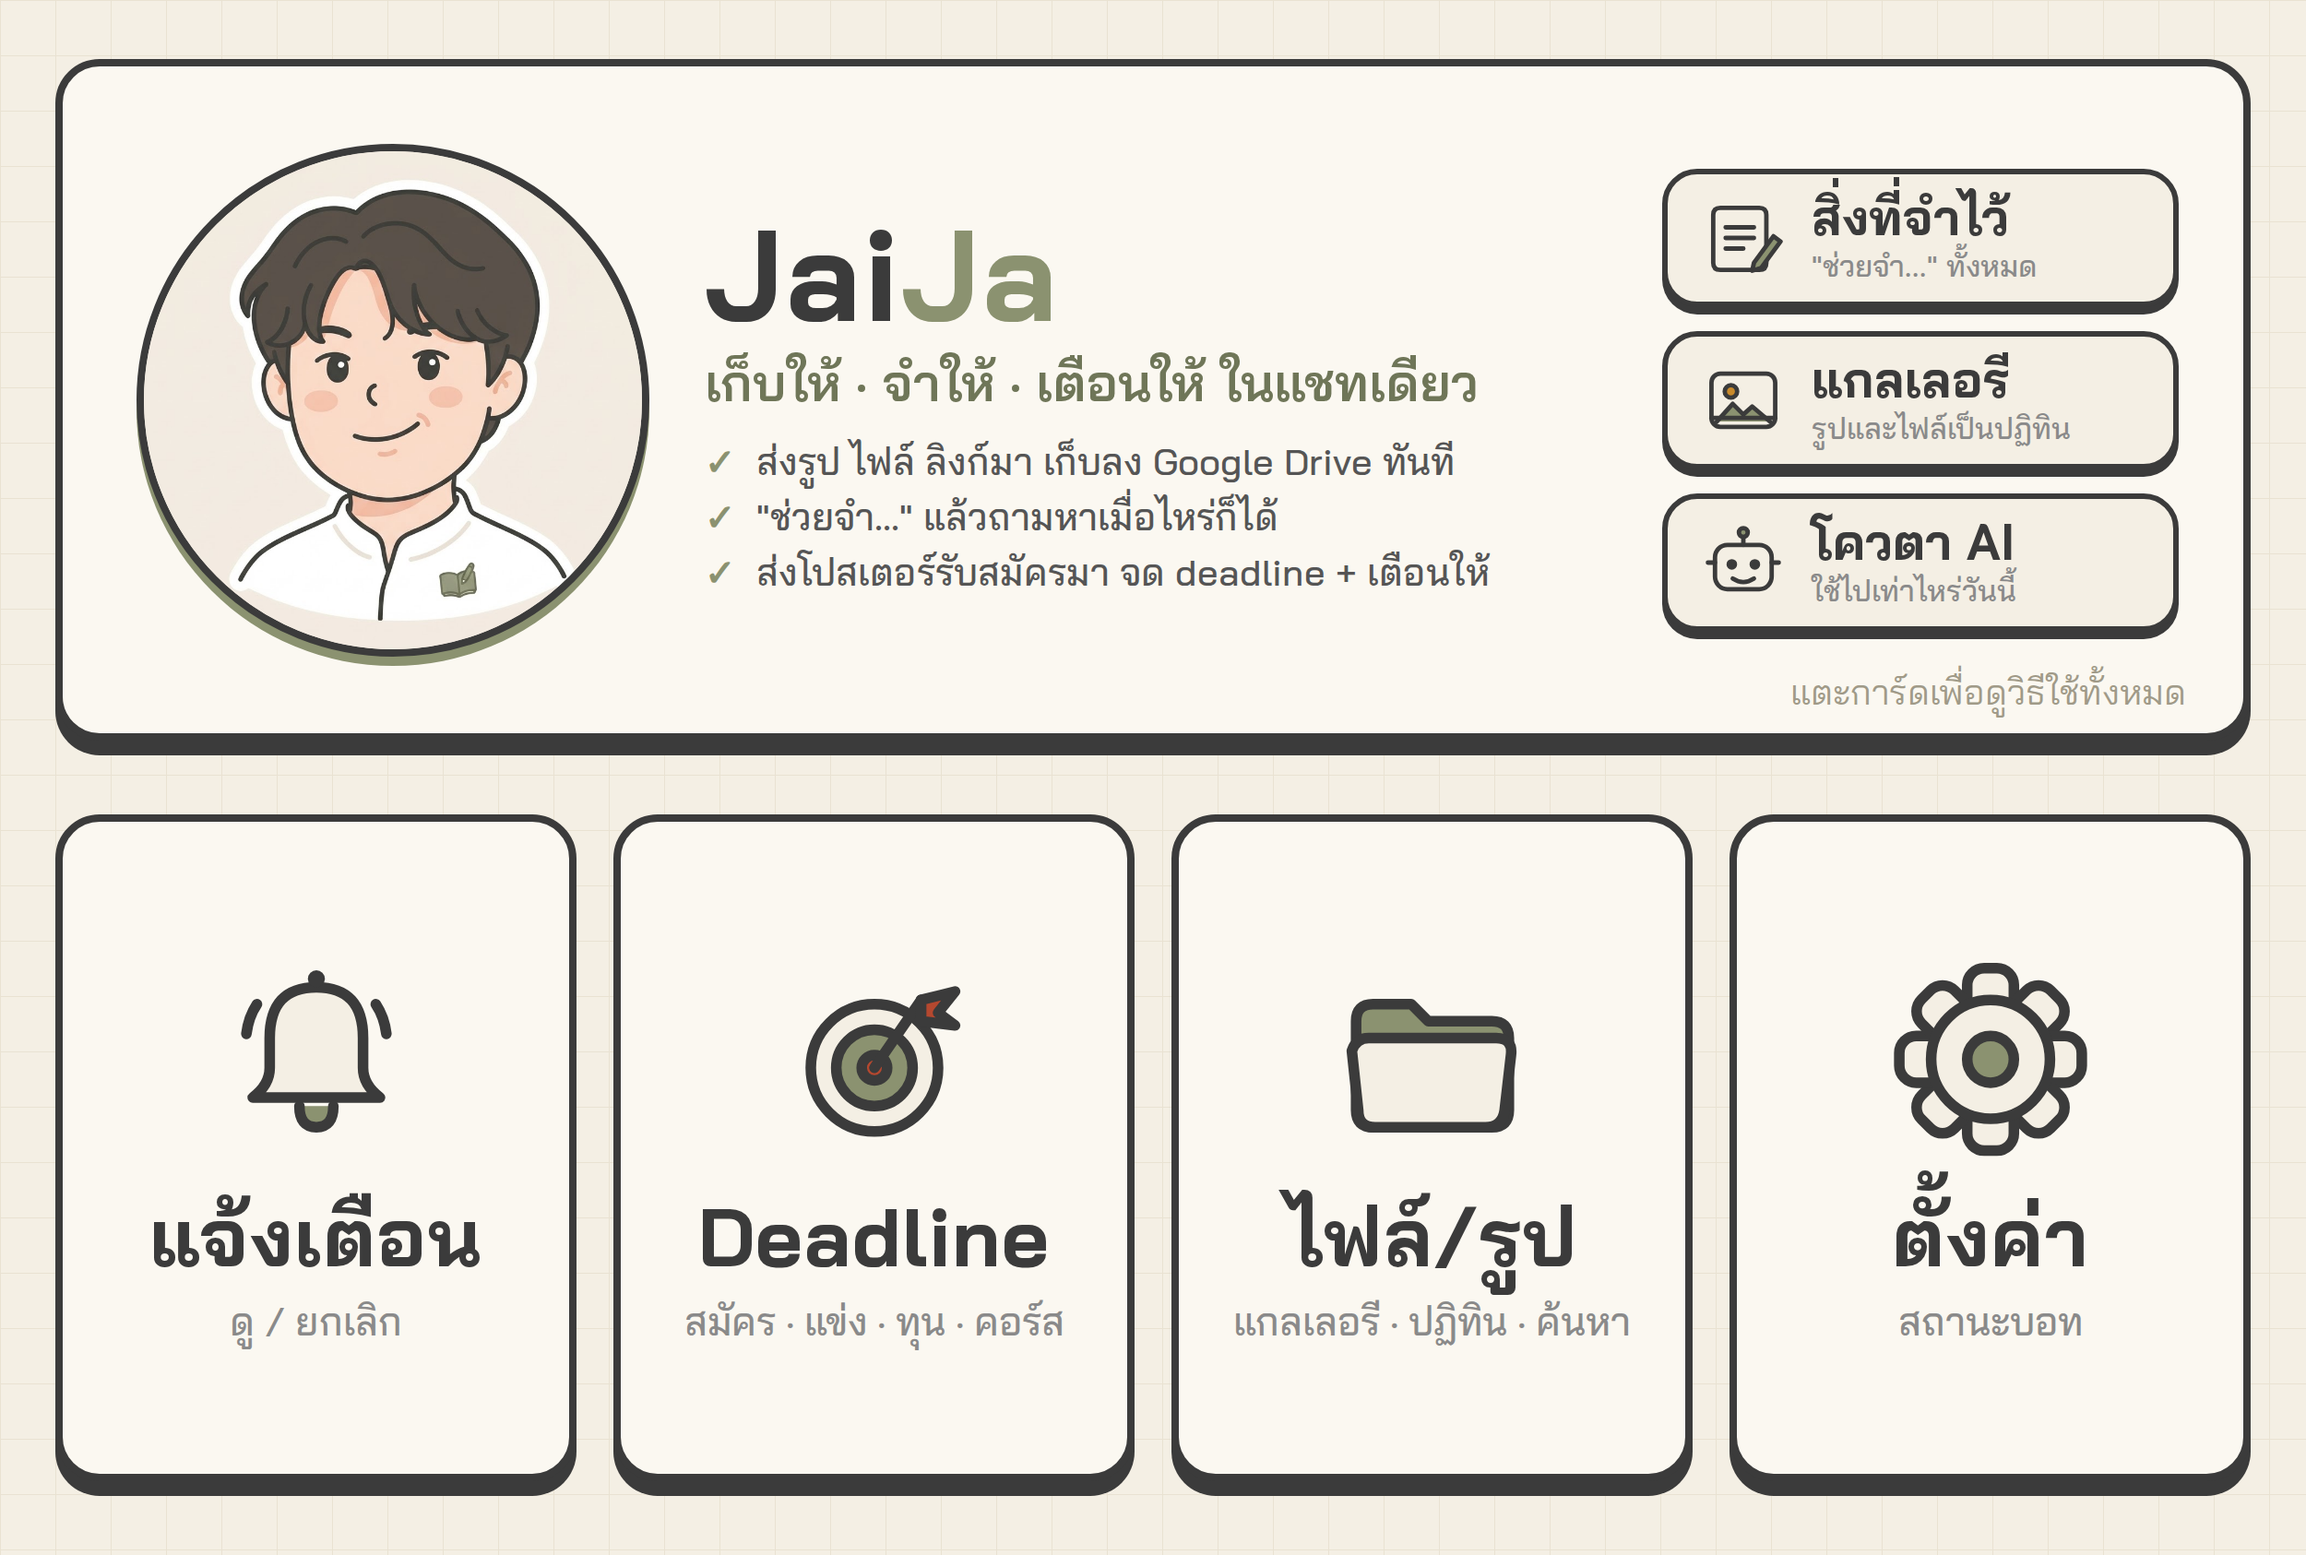
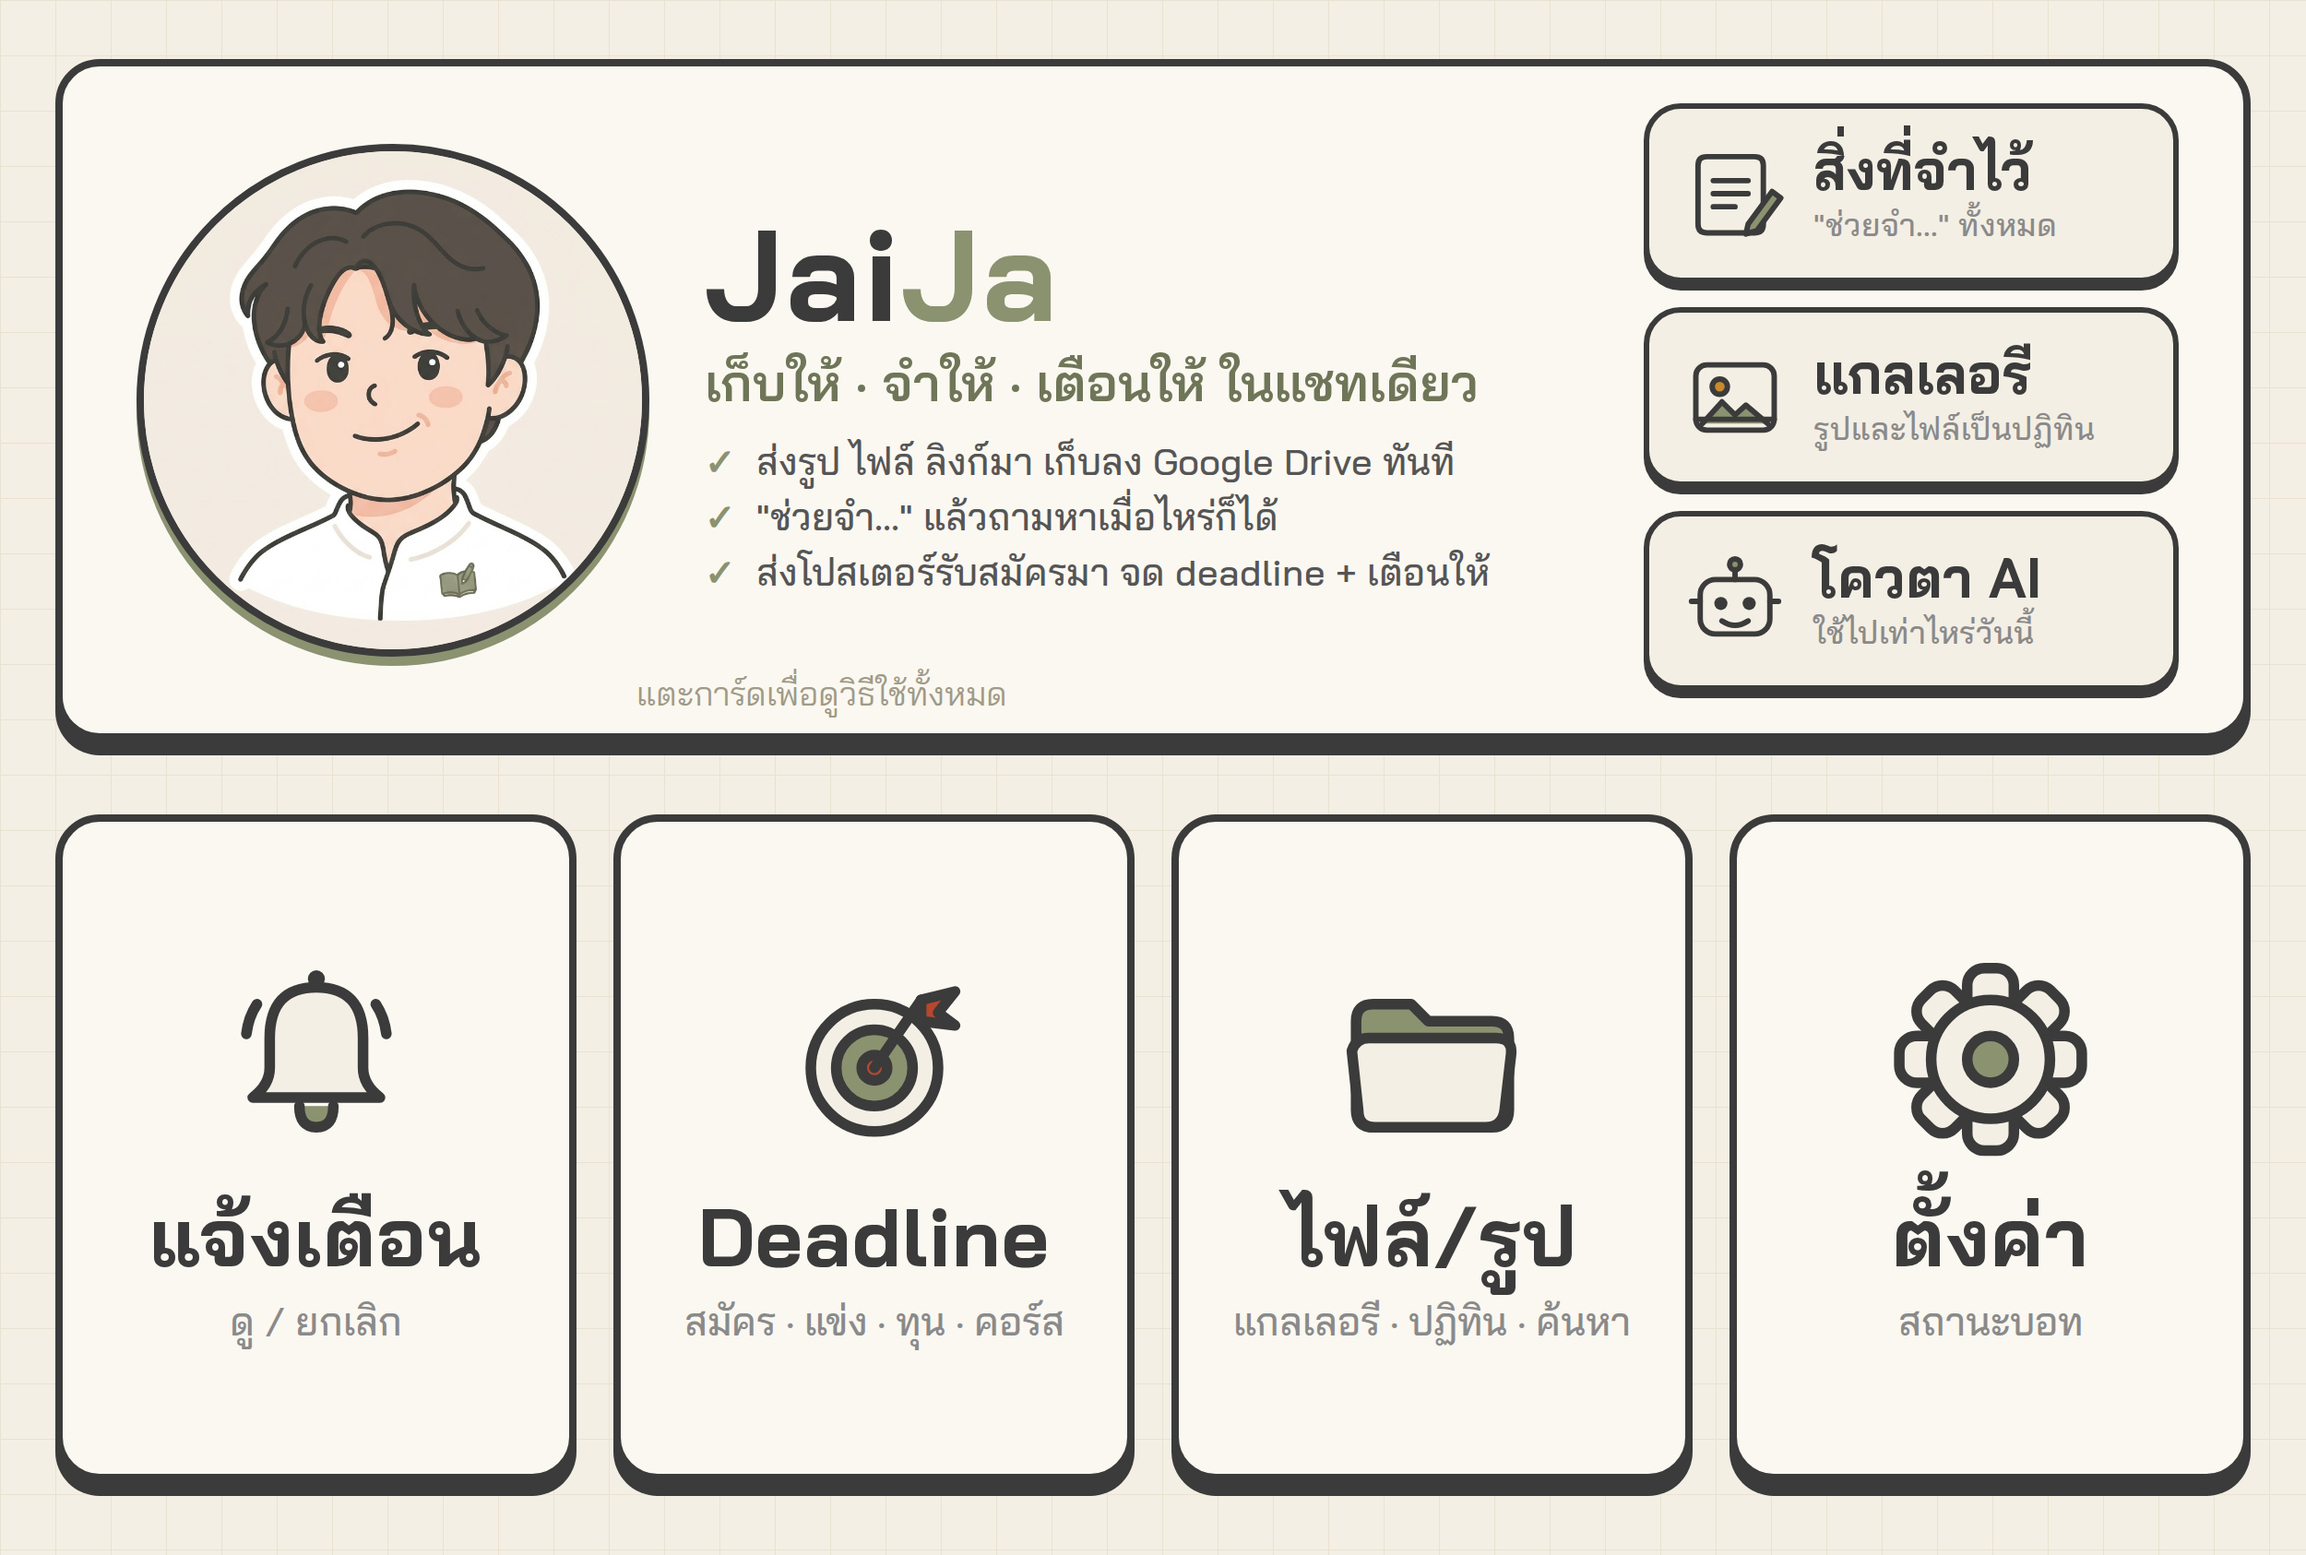
Rich menu: taller quick buttons
Claude-Session: https://claude.ai/code/session_015vCnr8hWsC3tgNT17YgMwq

Changed region(s): [[0.7176, 0.0617, 0.9672, 0.4626], [0.2808, 0.4318, 0.4368, 0.4626]]

diff --git a/assets/richmenu-src/richmenu.html b/assets/richmenu-src/richmenu.html
@@ -21,15 +21,15 @@
     display: flex; align-items: center; gap: 60px; padding: 0 70px 0 80px; box-sizing: border-box;
   }
   /* Quick buttons in the banner's right-hand space. */
-  .quick { width: 560px; flex: none; display: flex; flex-direction: column; gap: 26px; }
+  .quick { width: 580px; flex: none; align-self: stretch; display: flex; flex-direction: column; gap: 26px; padding: 40px 0 46px; box-sizing: border-box; }
   .q {
-    height: 150px; background: #F4EFE4; border: 6px solid #3B3B3B; border-radius: 38px; box-shadow: 0 8px 0 #3B3B3B;
+    flex: 1; background: #F4EFE4; border: 6px solid #3B3B3B; border-radius: 40px; box-shadow: 0 8px 0 #3B3B3B;
     display: flex; align-items: center; gap: 26px; padding: 0 34px; box-sizing: border-box;
   }
-  .q .qi { width: 96px; height: 96px; flex: none; display: flex; }
+  .q .qi { width: 118px; height: 118px; flex: none; display: flex; }
   .q .qi svg { width: 100%; height: 100%; }
-  .q .qt { font-size: 54px; font-weight: 700; line-height: 1; }
-  .q .qs { font-size: 32px; color: #8A8A8A; font-weight: 500; margin-top: 6px; }
+  .q .qt { font-size: 60px; font-weight: 700; line-height: 1; }
+  .q .qs { font-size: 34px; color: #8A8A8A; font-weight: 500; margin-top: 8px; }
   .mascot { width: 540px; height: 540px; border-radius: 50%; background: #F4EFE4; border: 8px solid #3B3B3B; overflow: hidden; flex: none; box-shadow: 0 10px 0 #8B9270; }
   .mascot img { width: 100%; height: 100%; object-fit: cover; transform: scale(1.12); }
   .text { flex: 1; }
@@ -38,7 +38,7 @@
   .tag { font-size: 56px; color: #6F7658; margin-top: 10px; font-weight: 600; }
   .list { margin-top: 26px; display: flex; flex-direction: column; gap: 10px; font-size: 40px; color: #555; font-weight: 500; }
   .list div::before { content: '✓'; color: #8B9270; font-weight: 700; margin-right: 22px; }
-  .hint { position: absolute; right: 130px; bottom: 912px; font-size: 38px; color: #A09A88; }
+  .hint { position: absolute; left: 690px; bottom: 912px; font-size: 36px; color: #A09A88; }
   .row { display: flex; gap: 40px; padding: 40px 60px 80px; box-sizing: border-box; height: 843px; }
   .btn {
     flex: 1; background: #FBF8F1; border: 8px solid #3B3B3B; border-radius: 48px;
